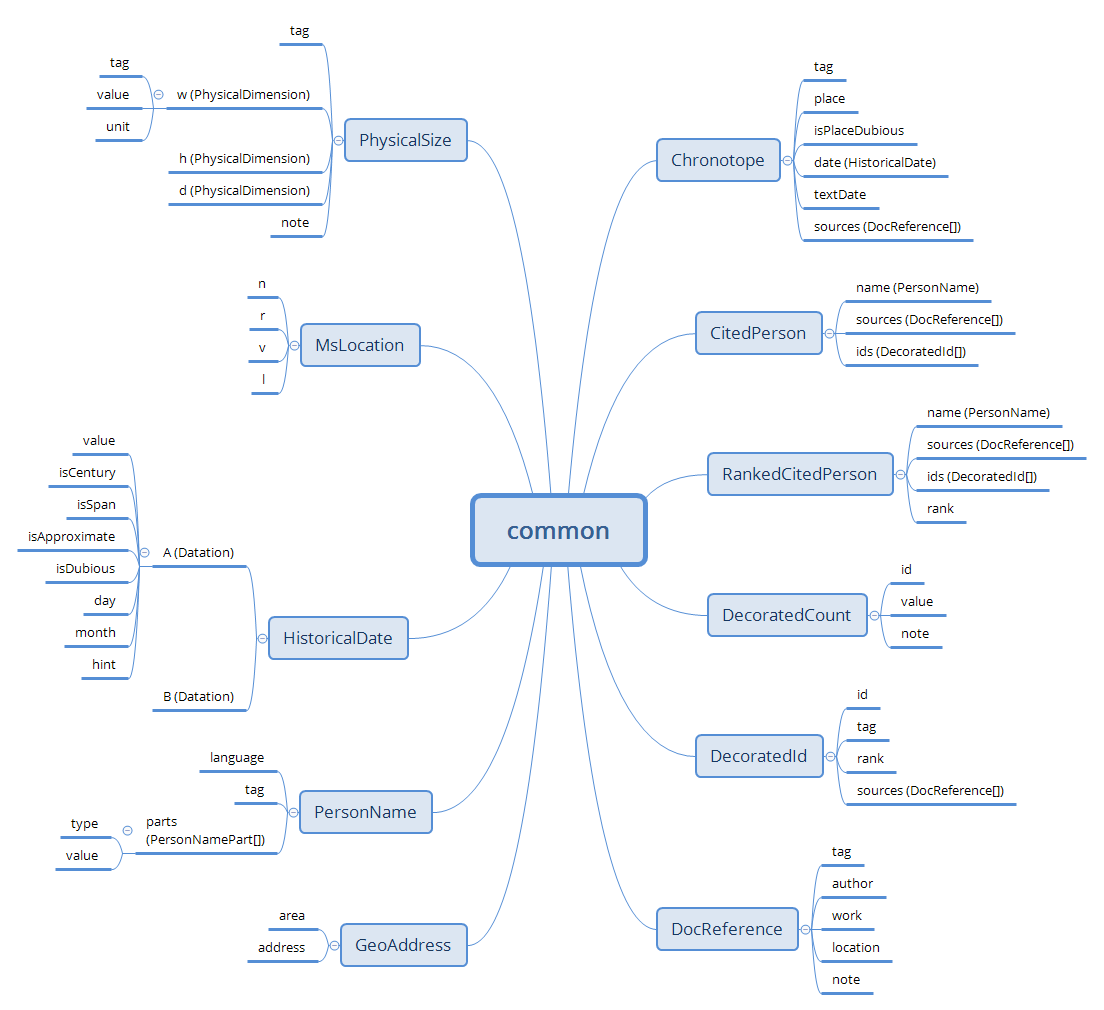
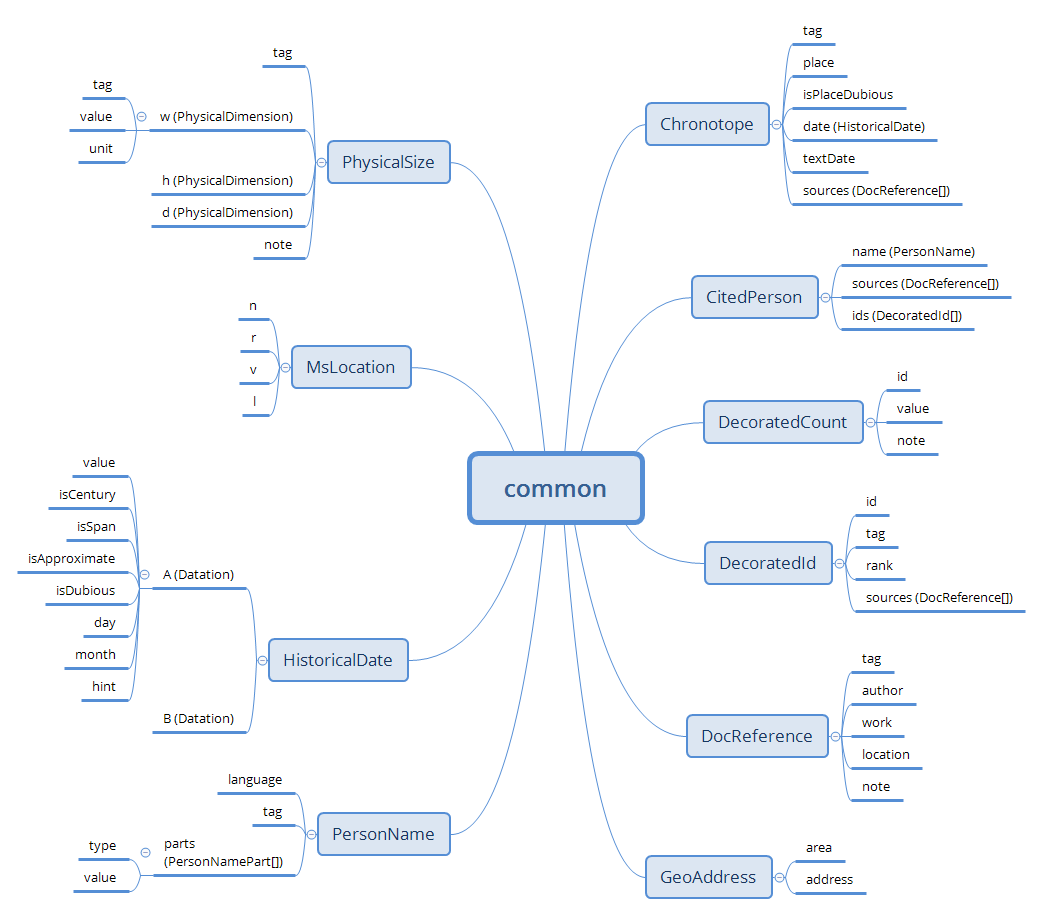
CitedPerson

diff --git a/models.md b/models.md
@@ -5,7 +5,6 @@
     - [Attachment](#attachment)
     - [Chronotope](#chronotope)
     - [CitedPerson](#citedperson)
-    - [RankedCitedPerson](#rankedcitedperson)
     - [DecoratedCount](#decoratedcount)
     - [DecoratedId](#decoratedid)
     - [DocReference](#docreference)
@@ -97,10 +96,6 @@ Note that here and in other parts the _place just corresponds to a conventional 
 - `CitedPerson`: a person cited in a literary source:
   - `name` (`PersonName`)
   - `ids` (`DecoratedId[]`)
-
-### RankedCitedPerson
-
-Equal to `CitedPerson` plus a `rank` (`short`).
 
 ### DecoratedCount
 
@@ -312,7 +307,7 @@ A text being part of a series of exchanges, like e.g. a letter.
 - `genre` (`string`, thesaurus)
 - `verse` (`string`, thesaurus)
 - `rhyme` (`string`): rhyme scheme.
-- `authors`\* (`RankedCitedPerson[]`): the rank for person is there to express the fact that the attribution of the text to the identified person has a certain level of confidence.
+- `authors`\* (`CitedPerson[]`): the rank for person is used here to express the fact that the attribution of the text to the identified person has a certain level of confidence.
 - `headings` (`string[]`): zero or more headings found in the manuscript text or its variants.
 - `recipients`\* (`DecoratedId[]`): recipient(s), at least 1.
 - `replyingTo` (`DecoratedId[]`)
